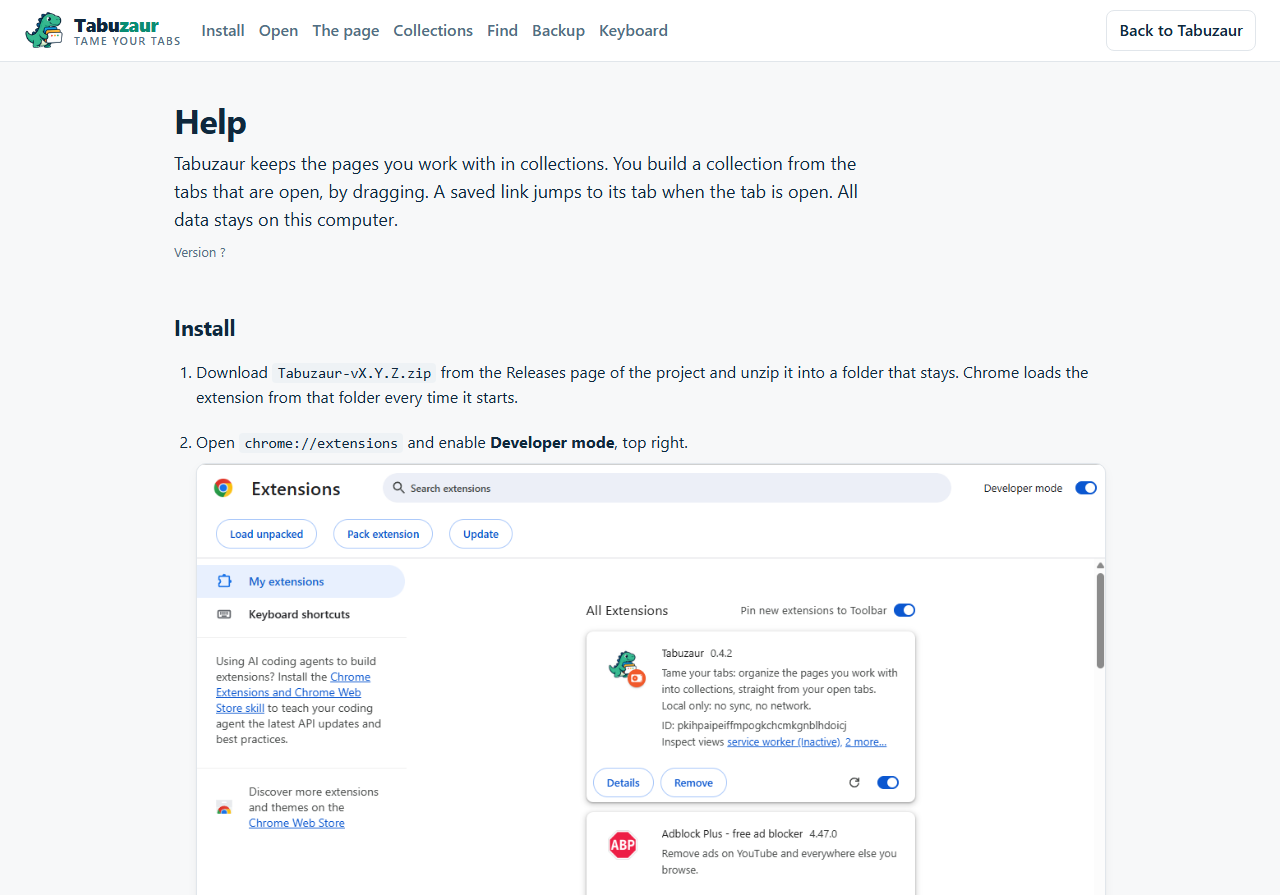
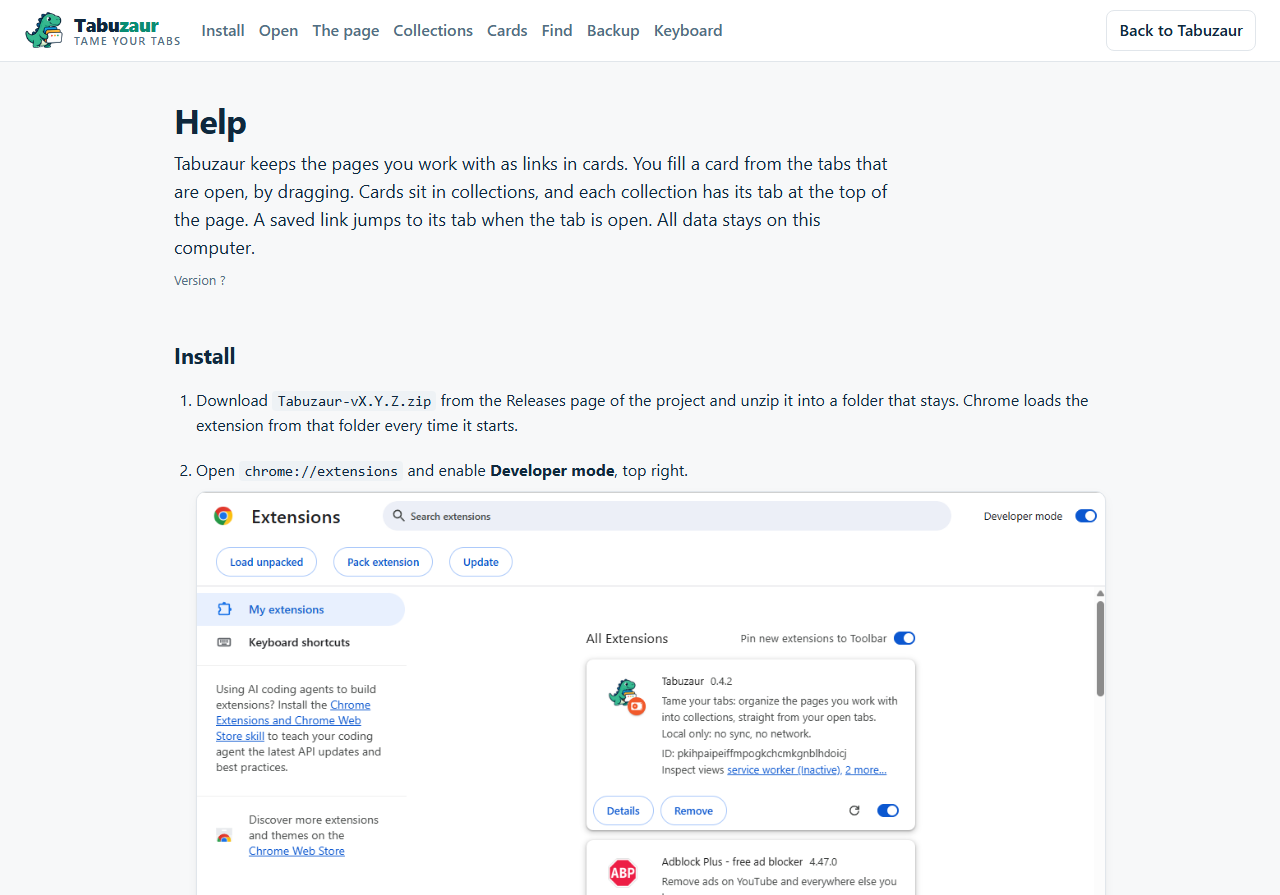
docs: links in cards, cards in collections
The help page and the README use one name per thing: link, card,
collection, the collection bar, the panel. Help: a new Collections
section (create with +, open, rename, reorder, move a card onto a tab,
delete only an empty collection, keep the last) with the tab-bar
picture; the former Collections section becomes Cards; Find names the
counts on the tabs; Backup names the rule for a file of 0.8 (into the
open collection) and that 0.8 cannot read a new file; the keyboard table
names Enter on a tab. README: Everyday use, Backup, Privacy, Layout and
Design follow the new model, the three layers, the settings record, the
upgrade with its backup key, and npm run check:page. Manifest and
package descriptions name cards and collections. Written to STE:
active voice, no phrasal verbs, no semicolons, sentences of 25 words
or fewer (checked by a scan).

diff --git a/help.html b/help.html
@@ -21,6 +21,7 @@
         <a href="#open">Open</a>
         <a href="#page">The page</a>
         <a href="#collections">Collections</a>
+        <a href="#cards">Cards</a>
         <a href="#find">Find</a>
         <a href="#backup">Backup</a>
         <a href="#keyboard">Keyboard</a>
@@ -32,9 +33,10 @@
       <section class="hero">
         <h1>Help</h1>
         <p class="lead">
-          Tabuzaur keeps the pages you work with in collections. You build a collection from the
-          tabs that are open, by dragging. A saved link jumps to its tab when the tab is open. All
-          data stays on this computer.
+          Tabuzaur keeps the pages you work with as links in cards. You fill a card from the tabs
+          that are open, by dragging. Cards sit in collections, and each collection has its tab at
+          the top of the page. A saved link jumps to its tab when the tab is open. All data stays
+          on this computer.
         </p>
         <p class="version">Version <span id="version">?</span></p>
       </section>
@@ -66,64 +68,80 @@
         <ul>
           <li><strong>The toolbar button.</strong> Click the dinosaur next to the address bar. Pin it there with the puzzle-piece menu if Chrome hides it.</li>
           <li><strong>Alt+T.</strong> Chrome assigns this key at install when no other extension uses it. The page header shows the key in effect. If it shows <em>No shortcut assigned</em>, click it and set a key on <code>chrome://extensions/shortcuts</code>.</li>
-          <li><strong>Every new tab.</strong> Off by default. Open Settings with the gear in the header and tick <strong>Open Tabuzaur in every new tab</strong>. A new blank tab then shows the Tabuzaur page. When the window already has a Tabuzaur tab, the new tab closes and you land on that one. A window keeps one Tabuzaur tab: when one is active, its copies in that window close. Untick it to get Chrome's new-tab page back.</li>
-          <li><strong>Collection width.</strong> Settings also holds a bar with three steps: Small, Medium, Large. It sets the least width of a collection. Narrower collections give more columns. The number of columns follows the window either way.</li>
+          <li><strong>Every new tab.</strong> Off by default. Open Settings with the gear in the header and tick <strong>Open Tabuzaur in every new tab</strong>. A new blank tab then shows the Tabuzaur page. When the window already has a Tabuzaur tab, the new tab closes and you land on that one. A window keeps one Tabuzaur tab: when one is active, its copies in that window close. Untick it to restore Chrome's new-tab page.</li>
+          <li><strong>Card width.</strong> Settings also holds a bar with three steps: Small, Medium, Large. It sets the least width of a card. Narrower cards give more columns. The number of columns follows the window either way.</li>
           <li><strong>Start page.</strong> Copy the ID from the Tabuzaur card. Open <code>chrome://settings/onStartup</code>, choose <strong>Open a specific page or set of pages</strong>, click <strong>Add a new page</strong> and enter <code>chrome-extension://&lt;id&gt;/tabs.html</code>.</li>
         </ul>
-        <figure><img src="help/img/settings.png" alt="The settings dialog with the new-tab option" /><figcaption>Settings: the collection width bar and the new-tab option, off until you tick it.</figcaption></figure>
+        <figure><img src="help/img/settings.png" alt="The settings dialog with the new-tab option" /><figcaption>Settings: the card width bar and the new-tab option, off until you tick it.</figcaption></figure>
         <figure><img src="help/img/chrome-startup.png" alt="Chrome's On startup setting with the Tabuzaur page added" /><figcaption>The On startup setting with the Tabuzaur page.</figcaption></figure>
         <figure><img src="help/img/chrome-shortcuts.png" alt="Chrome's keyboard shortcuts page with the Tabuzaur row" /><figcaption>The shortcuts page: any key can be set here.</figcaption></figure>
       </section>
 
       <section id="page">
         <h2>The page</h2>
-        <figure><img src="help/img/page.png" alt="The Tabuzaur page with four collections" /><figcaption>Header on top, the open-tab rail on the left, collections in the middle.</figcaption></figure>
+        <figure><img src="help/img/page.png" alt="The Tabuzaur page with the collection bar and four cards" /><figcaption>The header on top, the collection bar under it, the open-tab rail on the left, the cards in the middle.</figcaption></figure>
         <ul>
-          <li><strong>Header.</strong> The logo and the name lead to the project on GitHub. Then search, a field to create a collection, Export, Import, the theme button, Settings and this help.</li>
+          <li><strong>Header.</strong> The logo and the name lead to the project on GitHub. Then come the search, the field for a new card, Export, Import, the theme button, Settings and this help.</li>
+          <li><strong>Collection bar.</strong> Each collection has a tab here. The page shows the cards of the open collection. Tabuzaur remembers which collection was open.</li>
           <li><strong>Open tabs.</strong> The thin rail on the left shows how many tabs are open. Rest the pointer on it and the panel opens with every open tab, grouped by window.</li>
           <li><strong>Pin.</strong> The pin at the top of the panel keeps it open as a column. Click it again and the panel closes when the pointer leaves it.</li>
         </ul>
         <div class="pair">
-          <figure><img src="help/img/flyout.png" alt="The open-tab panel slid out over the collections" /><figcaption>The panel opens from the rail.</figcaption></figure>
+          <figure><img src="help/img/flyout.png" alt="The open-tab panel slid out over the cards" /><figcaption>The panel opens from the rail.</figcaption></figure>
           <figure><img src="help/img/pinned.png" alt="The open-tab panel pinned as a column" /><figcaption>Pinned, the panel is a column.</figcaption></figure>
         </div>
       </section>
 
       <section id="collections">
         <h2>Collections</h2>
-        <figure class="demo"><img src="help/img/demo.gif" alt="A tab dragged from the panel into a collection" /><figcaption>Drag a tab from the panel onto a collection. The tab stays open.</figcaption></figure>
+        <p>A collection groups cards, for example one collection for work and one for home. A new installation, and every update from Tabuzaur 0.8 or earlier, starts with one collection named Main that holds all cards.</p>
+        <figure><img src="help/img/tabbar.png" alt="A card held by its band over the tab of the collection Later" /><figcaption>Drag a card by its colored band onto a tab: the tab lifts, and the card moves to that collection.</figcaption></figure>
         <ul>
-          <li><strong>Create.</strong> Type a name in the header field and click Create. The new collection gets its own color.</li>
-          <li><strong>Add a link.</strong> Drag a tab from the panel onto a collection. The link keeps the title, the address and the icon of the tab. Tabuzaur refuses a link that is already in that collection, with a notice.</li>
+          <li><strong>Create.</strong> Click the + at the end of the collection bar. Type a name and press Enter. Tabuzaur opens the new collection.</li>
+          <li><strong>Open.</strong> Click a tab.</li>
+          <li><strong>Rename.</strong> Click the pen on the open tab, or double-click a tab. Enter saves, Escape cancels.</li>
+          <li><strong>Reorder.</strong> Drag a tab along the bar. A green line shows where it lands.</li>
+          <li><strong>Move a card.</strong> Drag the colored band of a card onto another tab. Tabuzaur adds the card at the end of that collection, and the tab flashes.</li>
+          <li><strong>Delete.</strong> Click the trash on the open tab. Tabuzaur deletes only an empty collection, and it keeps the last collection. When the trash is grey, its tooltip tells you why.</li>
+        </ul>
+      </section>
+
+      <section id="cards">
+        <h2>Cards</h2>
+        <figure class="demo"><img src="help/img/demo.gif" alt="A tab dragged from the panel into a card" /><figcaption>Drag a tab from the panel onto a card. The tab stays open.</figcaption></figure>
+        <ul>
+          <li><strong>Create.</strong> Type a name in the field <strong>New card</strong> in the header and click Create. Tabuzaur adds the card to the open collection and gives it its own color.</li>
+          <li><strong>Add a link.</strong> Drag a tab from the panel onto a card. The link keeps the title, the address and the icon of the tab. Tabuzaur refuses a link that is already in that card, with a notice.</li>
           <li><strong>Open a link.</strong> Click anywhere on the link row. When the page is open in a tab, Tabuzaur jumps to that tab. Otherwise it opens the page in a new tab.</li>
-          <li><strong>Reorder.</strong> Drag a link up or down inside its collection. A green line shows where it lands. Drag it onto another collection to move it there.</li>
-          <li><strong>Reach a collection below the fold.</strong> While you drag, hold the pointer near the top or the bottom edge of the collections. The page scrolls until you move away. The wheel does not scroll during a drag.</li>
+          <li><strong>Reorder links.</strong> Drag a link up or down inside its card. A green line shows where it lands. Drag it onto another card to move it there.</li>
+          <li><strong>Reach a card lower on the page.</strong> While you drag, hold the pointer near the top or the bottom edge of the cards. The page scrolls until you move away. The wheel does not scroll during a drag.</li>
           <li><strong>Edit a link.</strong> Rest the pointer on the link and click the pen. Change the title or the address. Enter saves, Escape cancels.</li>
           <li><strong>Remove a link.</strong> Rest the pointer on the link and click the cross.</li>
-          <li><strong>Rename a collection.</strong> Click the pen in the colored band.</li>
-          <li><strong>Move a collection.</strong> Drag the colored band onto another collection. A green line between the cards shows where it lands.</li>
-          <li><strong>Delete a collection.</strong> Click the trash icon in the band. Tabuzaur asks first.</li>
+          <li><strong>Rename a card.</strong> Click the pen in the colored band.</li>
+          <li><strong>Move a card.</strong> Drag the colored band onto another card to change the order. A green line between the cards shows where it lands. Drag the band onto a tab to move the card to another collection.</li>
+          <li><strong>Delete a card.</strong> Click the trash icon in the band. Tabuzaur asks first.</li>
         </ul>
         <div class="pair">
-          <figure><img src="help/img/drop.png" alt="A tab held over a collection" /><figcaption>The target collection lifts while a tab is over it.</figcaption></figure>
+          <figure><img src="help/img/drop.png" alt="A tab held over a card" /><figcaption>The target card lifts while a tab is over it.</figcaption></figure>
           <figure><img src="help/img/edit.png" alt="A link with its title and address open for editing" /><figcaption>The pen opens the title and the address.</figcaption></figure>
         </div>
       </section>
 
       <section id="find">
         <h2>Find</h2>
-        <p>Type in the search field in the header. Only collections with a match stay on the page, and Tabuzaur marks the match in the names and the links. The panel has its own filter for open tabs.</p>
-        <figure><img src="help/img/search.png" alt="The page filtered by the word lisbon" /><figcaption>A search for "lisbon".</figcaption></figure>
+        <p>Type in the search field in the header. The open collection shows only the cards with a match, and Tabuzaur marks the match in the names and the links. Every tab shows how many of its cards match. Click a tab to see them. The panel has its own filter for open tabs.</p>
+        <figure><img src="help/img/search.png" alt="The page filtered by the word lisbon, with a count on each tab" /><figcaption>A search for "lisbon": one card in Main, none in Later.</figcaption></figure>
       </section>
 
       <section id="backup">
         <h2>Backup</h2>
-        <p><strong>Export</strong> downloads all collections as one JSON file named <code>tabuzaur-backup-YYYY-MM-DD.json</code>. <strong>Import</strong> reads such a file and asks what to do with it.</p>
+        <p><strong>Export</strong> downloads every collection with its cards as one JSON file named <code>tabuzaur-backup-YYYY-MM-DD.json</code>. <strong>Import</strong> reads such a file and asks what to do with it.</p>
         <ul>
-          <li><strong>Replace</strong> removes the collections you have and loads the file.</li>
-          <li><strong>Merge</strong> adds the file to what you have. Collections with the same name join. Links you already have stay as they are. Nothing is removed.</li>
+          <li><strong>Replace</strong> removes everything you have and loads the file.</li>
+          <li><strong>Merge</strong> adds the file to what you have. A collection joins the collection with the same name. A card joins the card with the same name in that collection. Links you already have stay as they are. Nothing is removed.</li>
+          <li><strong>A file from Tabuzaur 0.8 or earlier</strong> holds cards only. Tabuzaur imports it into the open collection. Merge adds its cards there. Replace replaces the cards of that collection. The other collections stay.</li>
         </ul>
-        <p>The same file carries collections to another computer.</p>
+        <p>The same file carries your collections to another computer. Tabuzaur 0.8 and earlier cannot read a file from this version. Update the other computer first.</p>
         <figure><img src="help/img/dialog.png" alt="The import question with Replace, Merge and Cancel" /><figcaption>Import asks before it changes anything.</figcaption></figure>
       </section>
 
@@ -137,7 +155,7 @@
         <h2>Keyboard</h2>
         <table>
           <tr><th>Alt+T</th><td>Open Tabuzaur from any tab, or bring it to the front.</td></tr>
-          <tr><th>Enter</th><td>Save a name or a link you are editing.</td></tr>
+          <tr><th>Enter</th><td>Save a name or a link you are editing. On a focused tab of the collection bar, open that collection.</td></tr>
           <tr><th>Escape</th><td>Leave the editor without a change. Close the import question.</td></tr>
           <tr><th>Tab</th><td>Move through the fields and buttons. The pen, cross and trash buttons show when they have the focus.</td></tr>
         </table>
@@ -145,7 +163,7 @@
 
       <section id="privacy">
         <h2>Privacy</h2>
-        <p>Tabuzaur asks for two permissions: <code>tabs</code>, to list and open tabs, and <code>storage</code>, to keep the collections. It stores everything in Chrome's local storage on this computer. It makes no network request, has no account and sends nothing anywhere. Your backup file is the only copy outside Chrome, and you make it.</p>
+        <p>Tabuzaur asks for two permissions: <code>tabs</code>, to list and open tabs, and <code>storage</code>, to keep your collections, cards and settings. It stores everything in Chrome's local storage on this computer. It makes no network request, has no account and sends nothing anywhere. Your backup file is the only copy outside Chrome, and you make it.</p>
       </section>
     </main>
 

diff --git a/README.md b/README.md
@@ -8,14 +8,15 @@
 [![license](https://img.shields.io/github/license/meet-brad-ch/Tabuzaur)](LICENSE)
 ![Chrome Manifest V3](https://img.shields.io/badge/Chrome-Manifest%20V3-0a8d73)
 
-Tabuzaur is a Chrome extension that keeps the pages you work with in collections. You build a
-collection from the tabs that are open, by dragging. A saved link jumps to its tab when the tab is
-open, and opens the page when it is not. All data stays on your computer: there is no account, no
-sync and no network request.
+Tabuzaur is a Chrome extension that keeps the pages you work with as links in cards. You fill a
+card from the tabs that are open, by dragging. Cards sit in collections, and each collection has
+its tab at the top of the page. A saved link jumps to its tab when the tab is open, and opens the
+page when it is not. All data stays on your computer: there is no account, no sync and no network
+request.
 
-![The Tabuzaur page: collections in the middle, the open-tab rail on the left](public/help/img/page.png)
+![The Tabuzaur page: the collection bar on top, cards in the middle, the open-tab rail on the left](public/help/img/page.png)
 
-![A tab dragged from the panel into a collection](public/help/img/demo.gif)
+![A tab dragged from the panel into a card](public/help/img/demo.gif)
 
 ## Install in two minutes
 
@@ -36,9 +37,9 @@ To update: unzip the new release over the same folder, then click the reload ico
   shows the key in effect. If it shows "No shortcut assigned", click it and set a key on
   `chrome://extensions/shortcuts`.
 - **Every new tab.** Off by default. Open Settings with the gear in the header and tick
-  **Open Tabuzaur in every new tab**. A new blank tab then shows the Tabuzaur page.
-  When the window already has a Tabuzaur tab, Ctrl+T lands on that one instead of opening a copy,
-  and a window keeps one Tabuzaur tab: when one is active, its copies in that window close.
+  **Open Tabuzaur in every new tab**. Then a new blank tab shows the Tabuzaur page.
+  When the window already has a Tabuzaur tab, Ctrl+T lands on that one instead of opening a copy.
+  A window keeps one Tabuzaur tab: when one is active, its copies in that window close.
 - **Start page.** Copy the ID from the Tabuzaur card. In Chrome Settings, open **On startup**,
   choose **Open a specific page or set of pages**, click **Add a new page** and enter
   `chrome-extension://<id>/tabs.html`.
@@ -49,42 +50,52 @@ To update: unzip the new release over the same folder, then click the reload ico
 
 - **Open tabs.** The thin rail on the left shows how many tabs are open. Rest the pointer on it
   and the panel opens with every open tab, grouped by window. The pin keeps it open as a column.
-- **Create a collection.** Type a name in the header field and click Create. Each collection gets
-  its own color, and keeps it.
-- **Add a link.** Drag a tab from the panel onto a collection. The tab stays open. Tabuzaur refuses a
-  link that is already in that collection, with a notice.
+- **Collections.** The bar under the header has one tab per collection. Click a tab to open it.
+  The + at the end of the bar makes a new collection. The pen on the open tab, or a double click,
+  renames it. Drag a tab along the bar to change the order. The trash deletes an empty collection.
+  Tabuzaur keeps the last collection, and it remembers which collection was open.
+- **Create a card.** Type a name in the field **New card** in the header and click Create. Tabuzaur
+  adds the card to the open collection and gives it its own color. The card keeps that color.
+- **Add a link.** Drag a tab from the panel onto a card. The tab stays open. Tabuzaur refuses a link
+  that is already in that card, with a notice.
 - **Open a link.** Click the link row. Tabuzaur jumps to the open tab with that address, or opens
   the page in a new tab.
-- **Arrange.** Drag a link up or down, or onto another collection. Drag a collection by its colored
-  band to another place. A green line shows where the drop lands. To reach a collection below the
-  fold, hold the drag near the top or the bottom edge of the collections and the page scrolls.
+- **Arrange.** Drag a link up or down, or onto another card. Drag a card by its colored band to
+  another place, or onto a tab to move it to that collection. A green line shows where the drop
+  lands. To reach a card lower on the page, hold the drag near the top or the bottom edge of the
+  cards. The page scrolls.
 - **Edit.** Rest the pointer on a link and click the pen to change its title or address. The pen in
-  a band renames the collection. The cross removes a link. The trash icon deletes a collection
-  after a question.
-- **Find.** Type in the search field. Only collections with a match stay, and Tabuzaur marks the match.
+  a band renames the card. The cross removes a link. The trash icon deletes a card after a question.
+- **Find.** Type in the search field. The open collection shows only the cards with a match, and
+  Tabuzaur marks the match. Every tab shows how many of its cards match.
 - **Theme.** The round button cycles through system, light and dark.
-- **Settings.** The gear opens the settings: a bar with three steps for the collection width
-  (Small, Medium, Large) and the new-tab option.
+- **Settings.** The gear opens the settings: a bar with three steps for the card width (Small,
+  Medium, Large) and the new-tab option.
 - **Help.** The `?` button opens the help page, the same one that opens after install.
 
-![The open-tab panel slid out over the collections](public/help/img/flyout.png)
+![A card held by its band over the tab of another collection](public/help/img/tabbar.png)
 
 ## Backup
 
-**Export** downloads all collections as one JSON file, `tabuzaur-backup-YYYY-MM-DD.json`.
-**Import** reads such a file and asks what to do:
+**Export** downloads every collection with its cards as one JSON file,
+`tabuzaur-backup-YYYY-MM-DD.json`. **Import** reads such a file and asks what to do:
 
-- **Replace** removes the collections you have and loads the file.
-- **Merge** adds the file to what you have. Collections with the same name join, links you
-  already have stay, nothing is removed.
+- **Replace** removes everything you have and loads the file.
+- **Merge** adds the file to what you have. A collection joins the collection with the same name.
+  A card joins the card with the same name in that collection. Links you already have stay.
+  Nothing is removed.
+- **A file from Tabuzaur 0.8 or earlier** holds cards only. Tabuzaur imports it into the open
+  collection. Merge adds its cards there. Replace replaces the cards of that collection. The other
+  collections stay.
 
-The same file carries collections to another computer.
+The same file carries your collections to another computer. Tabuzaur 0.8 and earlier cannot read
+a file from this version. Update the other computer first.
 
 ## Privacy
 
-Tabuzaur asks for two permissions: `tabs`, to list and open tabs, and `storage`, to keep the
-collections. It stores everything in Chrome's local storage. It makes no network request, not
-even for a font.
+Tabuzaur asks for two permissions: `tabs`, to list and open tabs, and `storage`, to keep your
+collections, cards and settings. It stores everything in Chrome's local storage. It makes no
+network request, not even for a font.
 
 ## Development
 
@@ -95,6 +106,7 @@ npm ci                 # install the pinned toolchain
 npm run build          # vite build -> dist/ (the unpacked extension)
 npm run verify         # eslint + tsc --noEmit + vitest + vite build: the gate
 npm run shots          # render the help pictures headless (needs Chrome and Python with Pillow)
+npm run check:page     # drive the built page headless and check drags, focus and storage (needs Chrome)
 ```
 
 Load `dist/` with **Load unpacked** to run a development build. After a rebuild, click the reload
@@ -107,13 +119,13 @@ gate, zips `dist/` and publishes the zip with its SHA-256 as a GitHub Release.
 ### Layout
 
 - `public/manifest.json` — the extension manifest, copied verbatim into `dist/`
-- `tabs.html`, `src/tabs/` — the Tabuzaur page: open-tab panel, collection cards, drag and drop
+- `tabs.html`, `src/tabs/` — the Tabuzaur page: a controller, a renderer and one view per region (header, collection bar, panel, cards), the dialogs, drag and drop
 - `help.html`, `src/help/` — the help page
-- `src/background.ts` — the service worker: toolbar button, Alt+T, help on first install
-- `src/lib/` — collection model and operations, the local store and its parser, the backup file format, URL helpers, the Chrome tab adapter
+- `src/background.ts` — the service worker: toolbar button, Alt+T, help on first install, one Tabuzaur tab per window, the optional new-tab page
+- `src/lib/` — the library model (collections of cards of links) and its operations, the document reader with the upgrade from 0.8, merge and import rules, search, the settings record, the backup file format, the Chrome tab adapter
 - `src/shared/tokens.css` — colors and the dark theme, shared by both pages
-- `tests/` — Vitest unit tests of `src/lib/` with in-memory fakes
-- `tools/render/` — the headless render of the page for the help pictures, and a showcase backup to import
+- `tests/` — Vitest unit tests of `src/lib/` with in-memory fakes, and `tests/views/` for the views on happy-dom
+- `tools/render/` — the headless render of the page for the help pictures, the headless page check, and a showcase backup to import
 - `public/help/img/` — the pictures the help page and this README use
 - `public/icons/`, `branding/` — the extension icons and the brand showcase they come from
 - `.github/workflows/build.yml` — CI
@@ -121,16 +133,26 @@ gate, zips `dist/` and publishes the zip with its SHA-256 as a GitHub Release.
 ### Design
 
 - Manifest V3. The only background code is a module service worker. It handles the toolbar click,
-  the Alt+T command and the first-install hook. Nothing runs while no Tabuzaur page is open.
+  the Alt+T command, the first-install hook and the tab events for the one-tab rule and the
+  new-tab option. It keeps no state and reads the settings on every event.
 - Permissions are `tabs` and `storage`. All data lives in `chrome.storage.local`.
-- A collection is a hand-made folder of links. The stored document holds collections, each with
-  an id, a name, a color and its links. Older documents without colors get them on first load.
-- Pure logic sits in `src/lib/` behind adapter interfaces and is unit-tested in Node with fakes.
-  The Chrome API is touched only in thin adapters. The DOM code in `src/tabs/` is checked by the
-  headless render and by hand in Chrome.
-- The welcome page is Chrome's startup-page setting, not a new-tab override, so Ctrl+T stays
-  Chrome's unless the user turns on the new-tab option. That option works through the tabs API
-  on freshly created blank tabs and can be turned off again.
+- A link is a saved page. A card groups links and has a name and a color. A collection groups
+  cards and is a tab of the page. The stored document (schema 2) holds collections of cards of
+  links. A card id is unique in the whole document.
+- On the first load of a document of 0.8 or earlier (schema 1, cards only), Tabuzaur copies it
+  unchanged to `tabuzaur-backup-v1`. Then it reads the document as one collection Main and saves
+  it in the new form.
+- The settings (theme, card width, pinned panel, new-tab option, open collection) are one record
+  under one key.
+- Three layers. Pure logic in `src/lib/` has unit tests in Node with fakes. Only thin adapters
+  touch the Chrome API. In `src/tabs/`, a controller runs every user action, a
+  renderer rebuilds the regions, and the views only build DOM. The views are tested on happy-dom,
+  and `npm run check:page` drives the built page in headless Chrome.
+- The lint gate checks simple code rules. Functions stay small, with low complexity and one
+  statement per line. Every function sits in a class, and every class and method has a doc comment.
+- The welcome page is Chrome's startup-page setting, not a new-tab override. Ctrl+T stays Chrome's
+  until the user enables the new-tab option. That option uses the tabs API on new blank tabs, and
+  the user can disable it again.
 - TypeScript, Vite, Vitest and ESLint. Plain Vite with fixed entry names and relative asset paths.
 - Brand, from `branding/showcase.png`: navy `#0f283d`, green `#0a8d73` and `#36b88f`, mint
   `#dbf5ec`, tagline grey `#506f85`. The mascot on a transparent background is the icon.
